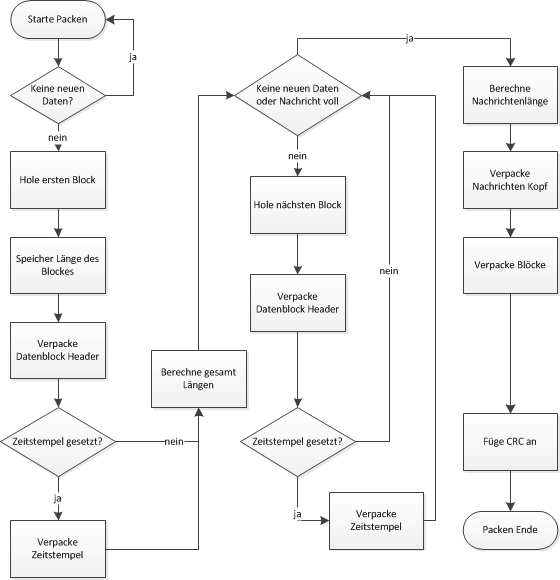
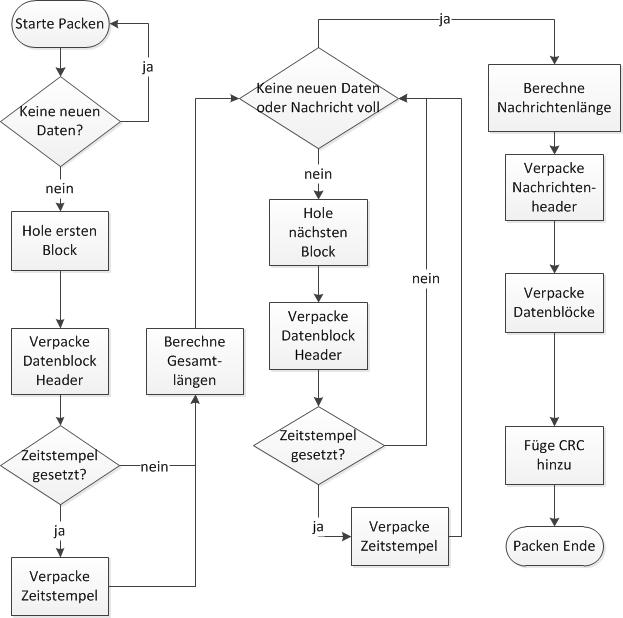
doc: 	improvements in implementation 	fixes typos 	pictures: improvements in readability

diff --git a/Documentation/projektarbeit2012/Implementierung.tex b/Documentation/projektarbeit2012/Implementierung.tex
@@ -7,23 +7,23 @@ welches über das Eclipse-Plugin EGit genutzt wurde. \newline Im Folgenden wird
 im Detail auf die Art und Weise der Realisierung der beiden Top-Level-Module
 \Code{Sender} und \Code{Receiver} eingegangen. Hierfür wurde eine flexible und
 modulare Softwarearchitektur entwickelt, damit auf spätere Änderungen, neue Anforderungen
-und erforderliche Optimierungen flexible reagieren werden kann. Dies ist durch
-das Austauschen kompletter Module möglich.
+und erforderlichen Optimierungen flexible reagieren werden kann. Dies ist durch
+das einfache Austauschen kompletter Module möglich.
 Dafür wird ein objektorientiertes Design genutzt, womit Quellcoderedundanzen und damit
-zahlreiche potentielle Programmfehler vermieden werden konnten.
+zahlreiche potentielle Programmierfehler vermieden werden konnten.
 Weiterhin ist die Wiederverwendung einzelner Quellcodepassagen möglich.\newline
-Damit die beiden Module in anderen Projekten einfach genutzt werden kann, wurde
-eine statische Library erstellt, welche über eine Schnittstelle die Funktionen
-der beiden Module bereitstellt. Wie bereits angesprochen wurden in dieser Arbeit
-nur die beiden Datentypen Text und Sensorwerte integriert.
+Damit die beiden Module in anderen Projekten einfach genutzt werden können,
+wurde eine statische Library erstellt, welche über eine Schnittstelle die Funktionen
+der beiden Module bereitstellt. In dieser Arbeit wurden nur die beiden
+Datentypen Text und Sensorwerte integriert.
 
 \section{Modulaufbau Sender}
 
 Die Aufgabe des Moduls \Code{Sender} besteht darin, die aus vier Phasen
-bestehende Verarbeitung der Daten aus \todo{LINK zur arbeit} umzusetzen. In
+bestehende Verarbeitung der Daten aus \todo{LINK zur crop-arbeit} umzusetzen. In
 \abbildung{BlockdiagrammSender} ist das Blockdiagramm des Moduls \Code{Sender}
 darstellt.
-Dies bietet eine Übersicht zu allen Modulen und wie diese mit anderen
+Dies bietet eine Übersicht zu den Modulen und wie diese untereinander 
 Kommunizieren. In der Grafik ist jedes Submodul durch ein M in der linken
 oberen Ecke des Blockes gekennezeichnt. Ebenso ist die Schnittstellenklasse angegeben
 und durch die Abkürzung IF (Interface) gekennzeichnet. Dadurch ist der geforderte modulare
@@ -47,17 +47,17 @@ Anschliessend wird jedem einzelnen Datenblock im nächsten Modul eine Priorität
 Relevanz und die Priorität der Datenblöcke wird in einem extra Modul namens
 CRODM (Content Relevance-oriented Data Management)
 berechnet und den Modulen übergeben.
-Anhand dieser wird der Datenblock in derDatenstruktur
-\Code{SmartPrioritizedQueue} einsortiert. Für diese Aufgabe wird eine einfache
-Liste aus der Standard Template Library (STL) verwendet.
-Diese gewährt die beste Laufzeitgeschwindkeit. Dadurch wird gewährleistet, dass die wichtigen
-Daten zuerst gesendet werden.
+Anhand dieser wird der Datenblock in die Datenstruktur
+\Code{SmartPrioritizedQueue} einsortiert. Dadurch wird
+gewährleistet, dass die wichtigen Daten zuerst gesendet werden. Für diese
+Aufgabe wird eine einfache Liste aus der Standard Template Library (STL) verwendet.
+Diese hat für den Zweck die beste Laufzeitgeschwindkeit.
 Damit die Verzögerung, die durch große Entfernungen auftreten, besser
 berücksichtigt werden kann, wird das Submodul \Code{Packetizer} als Thread
 gestartet.
-Dieser holt sich die Packete mit der höchsten Priorität aus der priorisierenden Queue
-und verpackt diese in eine Nachricht, welche anschliessend an die
-Netzwerkschnittstelle übergeben und versendet wird. \newline
+Dieser holt sich die Packete mit der höchsten Priorität aus der
+\Code{SmartPriorisierendenQueue} und verpackt diese in eine Nachricht, welche
+anschliessend an die Netzwerkschnittstelle übergeben und versendet wird. \newline
 Die Umsetzung der Submodule wird im nachfolgenden genauer erläutert.
 
 \subsection{Splitten und Encoden}
@@ -74,17 +74,13 @@ dargestellte Beispieltext erstellt.
 \label{fig:Beispieltext}
 \end{figure}
 
-In diesem Testfall wurden die relevanten Bereiche festgelegt, um mögliche
-Randfälle abzudecken. Die relevanten Bereiche sind in
-der \abbildung{Beispieltext} gelb markiert.
-Ein Bereich beginnt immer mit einer zeichengenauen Position, der x- und
-y-Koordinate im Text und der jeweiligen Länge. Für einen Textausschnitt ist die
-Angabe der Länge nur in x Richtung notwendig. \newline
-Daraus ergeben sich folgende relevanten Bereiche:
+In diesem Testfall wurden die relevanten Bereiche willkürlich festgelegt, mit
+dem Augenmerk mögliche Randfälle abzudecken. Die relevanten Bereiche sind in
+der \abbildung{Beispieltext} gelb markiert.\newline
+Daraus ergeben sich folgenden Positionen der relevanten Bereiche:
 
-% tabelle der relevanten bereiche
 \begin{longtable}{|cccl|}
-\caption{Übersicht der relevanten Bereiche} \\
+\caption{Übersicht der relevanten 2D-Bereiche} \\
 \hline
 \label{tab:UebersichtDerRelevantenBereiche}
 \textbf{Position x} & \textbf{Position y} & \textbf{Länge x} &
@@ -102,13 +98,71 @@ Für den Algorithmus ist es wichtig, dass die relevanten Bereiche nach den
 Positionen sortiert sind. Das bedeutet, je niedriger die Zeile und Spalte,
 desto weiter vorn ist diese Position in der Datenstruktur gespeichert.
 Deshalb werden alle Angaben, die von dem Submodul \Code{Crodm} übergeben werden 
-zusätzlich sortiert.
+zuerst sortiert.
 Im nächsten Schritt werden die zweidimensionalen Koordinaten zu einer
-eindimensionalen umgerechnet, dadurch konnte das Problem der
-Zeilensprünge und der Bereiche, welche über eine Zeile hinaus gehen
-gelöst werden. Dies vereinfacht den Algorithmus erheblich. Dafür werden die
-Längen der einzelnen Zeilen berechnet. Aus diesen Daten können anschließend die Blöcke für die
-relevanten Bereiche genutzt werden, um die unrelevanten Fragmente zu berechnen.
+eindimensionalen umgerechnet, dadurch konnte das herausschneiden der
+Textfragmente, welcher Zeilensprünge beinhalten kann oder über eine Zeile hinaus
+geht vereinfacht werden. Dafür
+werden zuerst die akkumulierten Gesamtlängen der einzelnen Zeilen berechnet.
+Vorhandene Umlaute und andere Zeichen die nicht im ASCII\footnote{ASCII
+(American Standard Code for Information Interchange): Ist eine 7-Bit Zeichencodierung.}\todo{quelle für ascii}
+-Zeichensatz enthalten sind, benötigen die doppelte Länge.
+Die Gesamtlängen der Zeilen sind in der Tabelle
+\ref{tab:UebersichtDerAkkumuliertenZeilenlaengen} angegeben.
+
+\begin{longtable}{|cc|}
+\caption{Übersicht der akkumulierten Zeilenlängen} \\
+\hline
+\label{tab:UebersichtDerAkkumuliertenZeilenlaengen}
+\textbf{Zeile} & \textbf{Länge}\\
+\hline
+  0 &    0 \\
+  1 &   27 \\
+  2 &   78 \\
+  3 &  192 \\
+\hline
+\end{longtable}
+
+Daraus ergeben sich die folgenden eindimensionalen Positionsangaben:
+
+\begin{longtable}{|ccl|}
+\caption{Übersicht der relevanten 1D-Bereiche} \\
+\hline
+\label{tab:UebersichtDerEindimensionalenBereiche}
+\textbf{Position x} & \textbf{Länge x} &
+\textbf{relevanter Text}\\
+\hline
+   13 & 14 & "`Beispieltext:\ensuremath{\backslash}n"' \\
+   27 &  9 & "`Hallo ich"' \\
+   62 & 22 & "`komme vom Mars.\ensuremath{\backslash}nDabei"' \\
+  115 & 18 & "`dann priorisiert,"' \\
+  151 &  4 & "`und "' \\
+\hline
+\end{longtable}
+
+Die Blöcke für die relevanten Bereiche können genutzt werden,
+um die dazwischenliegenden unrelevanten Fragmente zu berechnen. Die Differenz
+zwischen der Endposition des ersten Blockes und der Anfangsposition des
+darauf Folgenden ergibt die Länge des neuen Blockes. Die Anfangspositon des
+neuen Blockes ist die Endposition des Vorhergehenden. Die Relevanz ist Null.
+Zusammengefasst ergibt die Berechnung die in Tabelle
+\ref{tab:UebersichtDerUNRelevantenBereiche} aufgeführten Bereiche.
+
+\begin{longtable}{|ccl|}
+\caption{Übersicht der unrelevanten Bereiche} \\
+\hline
+\label{tab:UebersichtDerUNRelevantenBereiche}
+\textbf{Position x} & \textbf{Länge x} &
+\textbf{unrelevanter Text}\\
+\hline
+   0 & 13 & "`Es folgt ein "' \\
+  36 & 26 & "` bin ein Beispieltext und "' \\
+  84 & 31 & "`wurde ich zerstückelt, "' \\
+ 133 & 18 & "`einzeln versendet "' \\
+ 155 & 37 & "` auf der Erde wieder zusammengesetzt.\ensuremath{\backslash}n"' \\
+\hline
+\end{longtable}
+
 Zum Schluss muss noch der letzte Block berechnet werden, der nach dem letzten
 relevanten Bereich übrig ist, falls dieser nicht mit dem Ende abschliesst. Mit
 diesen Daten kann der Teiltext für jeden Block aus dem Content
@@ -116,13 +170,12 @@ herrausgeschnitten werden. An dieser Stelle wird noch überprüft, ob der
 Datenblock des Teiltextes größer ist als die maximale Datenblöckgröße und
 gegebenenfalls in mehrere kleinere Teile zerlegt. Dieser wird danach zusammen
 mit den Informationen des Datenblockheaders in der Klasse \Code{Datablock}
-gespeichert und in einer einfachen FIFO zwischengespeichert. Für
-Sensorwerte ist kein Zerlegen der Daten in einzelne Blöcke notwendig.
-hier werden lediglich mehrere Daten einer Quelle mit dem passenden
+gespeichert und in einer einfachen FIFO hinterlegt. Für die Sensorwerte
+ist kein Zerlegen der Daten in Teilblöcke notwendig.
+Hier werden lediglich mehrere Daten einer Quelle mit dem passenden
 Zeitstempel gebuffert, damit diese platzsparender in dem Datenblock als
 Content eingefügt werden können. \newline
-Zusammenfassend lässt sich der Algorithmus als Abarbeitung nachfolgender
-Teilschritte betrachten.
+Der Algorithmus ist noch einmal im nachfolgenden Pseudocode dargestellt.
 
 \lstdefinelanguage{pseudo}{
 morekeywords={if, else, for, in, remove, from, case, do, forever, to, false,
@@ -141,8 +194,8 @@ des Moduls SplitEncoding]{Listings/PseudocodeSplitEncoding.txt}
 
 Die priorisierten Datenblöcke werden in diesem Schritt zu einer Nachricht
 verpackt. Hierbei ist darauf zu achten, dass die maximale Packetgröße
-nicht überschritten wird. Weiterhin sollte kein Platz verschwendet werden, \dahe
-die Nachricht soll die maximale Nachrichtenlänge so gut wie möglich erreichen.
+nicht überschritten wird. Weiterhin soll kein Platz verschwendet werden, \dahe
+die Nachricht soll die maximale Nachrichtenlänge so genau wie möglich erreichen.
 Um die Nachricht auf der Empfängerseite wieder korrekt darstellen zu können, ist
 die Einhaltung der Reihenfolge von hoher Wichtigkeit. \newline
 Das Submodul ist, wie bereits angesprochen, nebenläufig zum Programmablauf
@@ -150,9 +203,9 @@ integriert, um die Verzögerungen simulieren zu können. Damit die
 dadurch auftretenden Probleme der Gleichzeitigkeit vermieden werden können,
 wurden Semaphore in der Klasse \Code{SmartPrioritizedQueue}
 eingefügt, welche sicherstellen, dass nicht zwei Programmteile gleichzeitig auf
-die Daten zugreifen. Da erst am Ende bekannt ist, wie lang die Nachricht wird,
-werden alle Daten zuerst temporär angelegt, die Länge aufaddiert und zum Schluß zur Nachricht
-zusammengefügt.
+die gleichen Daten zugreifen. Da erst am Ende bekannt ist, wie lang die
+Nachricht wird, werden alle Daten zuerst temporär angelegt, die Länge aufaddiert
+und zum Schluß zur Nachricht zusammengefügt.
 Um die Nachricht möglichst effizient zu verpacken, wird in der
 Datenstruktur \Code{SmartPrioritizedQueue} zuerst das vorderste Packet
 (\^= höchste Priorität) herausgenommen. Deshalb wurde der
@@ -194,8 +247,8 @@ Für das Abspeichern der Daten auf die Festplatte existieren prinzipielle drei M
 \item Jede erzeugte Variable wird direkt auf der Festplatte abgespeichert.
 \item Ein Datenpacket (mehrere Variablen) wird an einer Stelle im Programm auf
 einmal gespeichert.
-\item Es werden Interrupts des Prozessors abgefangen, um Abstürze zu erkennen
-um dann entsprechend alle wichtigen Daten zu speichern.
+\item Es werden Interrupts des Prozessors abgefangen, um Abstürze zu erkennen,
+infolgedessen alle wichtigen Daten gesichert werden.
 \end{enumerate}
 
 Die erste Methode hat den Vorteil, dass alle Daten sofort gesichert werden und
@@ -211,7 +264,8 @@ der Festplatte hinterlegt und bei einem Absturz neu lädt und damit die
 \Code{SmartPrioritizedQueue} vorinitialisiert. Dadurch sind die Schnittstellen schon indirekt
 vorgegeben, welche das Modul bereitstellen soll. Das ist eine Methode,
 welche Datenblöcke auf der Festplatte speichert, eine weitere um diese zu laden
-und eine dritte, mit der bereits gespeicherte Datenblöcke gelöscht werden können. 
+und eine Dritte, mit der bereits gespeicherte Datenblöcke gelöscht werden
+können.
 
 \begin{figure}[H]
 \centering
@@ -231,7 +285,7 @@ zusätzlich auf der Festplatte gesichert. Beim Programmstart wird in der
 Initialisierungsmethode des Topmoduls überprüft, ob bereits alte Daten vorhanden
 sind, welche anschliessend geladen werden. \newline
 Für das Abspeichern der
-Daten fehlt noch ein passendes Dateiformat, welches ein schnelle Speichern und
+Daten fehlt noch ein passendes Dateiformat, welches ein schnelles Speichern und
 Lesen ermöglicht. Dazu wurden zwei Möglichkeiten gegenüber gestellt. Diese sind
 in Tabelle \ref{tab:Speicherformate} aufgeführt.
 
@@ -271,15 +325,15 @@ aufgeführten Reihenfolge gespeichert:
 \end{itemize}
 
 Aufgrund der Tatsache, dass der Datenblockheader eine Kompression beinhaltet,
-und damit die Größe der Variablen unterschiedlich sein kann, wurde für die
+und damit die Größe der Variablen unterschiedlich sein kann, wird für die
 Variablen festgelegt, dass für jeden Wert die höchste auftretende Bitzahl
-aufgerundet zu ganzen Byte verwendet wird. Dadurch wird das Laden und
-Speichern stark vereinfacht. Der dabei auftretende zusätzliche
+aufgerundet zur nächsten Zweierpotenz als Byte verwendet wird. Dadurch
+wird das Laden und Speichern stark vereinfacht. Der dabei auftretende zusätzliche
 Speicherplatzbedarf kann vernachlässigt werden.
 \newline 
 Für die Ordnerstruktur wurde eine möglichst flache Hierachie genutzt, welche in
-der obersten Stufe den Ordner Backup beinhaltet. Darin befinden sich weitere Ordner, welche
-als Namen die Nummer des Datentypes beinhalten. In diesem liegen die binären
+der obersten Stufe den Ordner \Code{Backup} beinhaltet. Darin befinden sich
+weitere Ordner, welche als Namen die Nummer des Datentypes beinhalten. In diesem liegen die binären
 Dateien dessen Namen aus der Nummer der DOID und der Sequenznummer besteht.
 Diese sind durch einen Unterstrich voneinander getrennt. Die drei Parameter
 werden von der Methode remove zum Löschen einer Datei übergeben, um diese
@@ -292,13 +346,16 @@ werden, um an die darin enthaltenen Informationen zu gelangen. Das Empfangen
 durch das Submodul \Code{UDPSocket} ist blockend. Deswegen wird der Vorgang
 nebenläufig ausgeführt, damit der Programmablauf nicht behindert wird. Anschliessend wird
 die Nachricht geparst und nach dem Beenden des Vorganges ein Callback
-\todo{erklären was callback ist} ausgelöst.
-Diese Funktion kann mittels einer Methode registriert werden, in der die
-geparsten Daten weiter verarbeitet werden können. Das könnte beispielsweise die
-Visualisierung dieser sein. \newline
-In \abbildung{BlockdiagrammEmpfaenger} ist eine schematische
-Darstellung des Moduls dargestellt. Die Implementierung wird im Folgendem näher
-erläutert.
+\todo{erklären was callback ist} ausgelöst. Bei einem Callback wird
+ein Zeiger auf die Speicheradresse der Funktion in der Klasse gespeichert. Durch
+Aufruf der Funktion ist es möglich den sequentiellen Programmablauf an einer
+anderen Stelle weiterlaufen zu lassen. Nach Abarbeitung dieser kehrt der Ablauf
+zur ursprünglichen Position zurück. Diese Funktion kann mittels einer Methode
+registriert werden, in der die geparsten Daten weiter verarbeitet werden können.
+Die Callbackfunktion könnte beispielsweise die Visualisierung der Daten
+übernehmen. \newline 
+In \abbildung{BlockdiagrammEmpfaenger} ist eine schematische Darstellung des
+Moduls dargestellt. Die Implementierung wird im Folgendem näher erläutert.
 
 \begin{figure}[H]
 \centering
@@ -313,11 +370,11 @@ Der Parser basiert auf dem in Kapitel \ref{sec:ProtokolDesign}
 vorgestellten Protokoll-Design.
 Anhand dieser Daten wird die empfangende Nachricht Bit für Bit analysiert
 und die Informationen herrausgezogen. 
-Die Klasse UDPSocket empfängt neue Daten und gibt diese an
-die Klasse MessageParser weiter. Dieser parst die Nachrichtenheader. Dessen
-Algorithmus ist in \abbildung{AlgorithmusMessageParser} dargestellt.
+Die Klasse \Code{UDPSocket} empfängt neue Daten und gibt diese an
+die Klasse \Code{MessageParser} weiter. Dieser parst den Nachrichtenheader.
+Dessen Algorithmus ist in \abbildung{AlgorithmusMessageParser} dargestellt.
 Anschließend werden die Datenblockheader geparst. Der Content wird von der
-Klasse DataBlockProcessing verarbeitet.
+Klasse \Code{DataBlockProcessing} verarbeitet.
 
 \begin{figure}[H]
 \centering
@@ -328,10 +385,10 @@ Klasse DataBlockProcessing verarbeitet.
 
 Dafür wird ein Softwarekonzept namens Policy-Based-Template-Meta Programmierung
 \todo{LINK buch + wiki} verwendet, damit die unterschiedlichen Datentypen der
-Datenblöcke nach dem parsen wieder in einem typsicheren Format vorliegen und
+Datenblöcke nach dem Parsen wieder in einem typsicheren Format vorliegen und
 einfacher verwendet werden können.
-In diesem Fall werden die folgenden vier Klassen als Templateparameter Klasse
-übergeben:
+Der Templateklasse werden die folgenden vier Klassen als Templateparameter
+Klasse übergeben:
 
 \begin{itemize}
 \item T - Datentyp des Rückgabewertes des Parsers
@@ -341,7 +398,7 @@ In diesem Fall werden die folgenden vier Klassen als Templateparameter Klasse
 \end{itemize}
 
 Die beiden Parameter \Code{Parser} und \Code{Decoder} erben zusätzlich von einer
-Schnittstelle. Die Klasse \Code{DataBlockProcessing} erbt
+Schnittstelle gleichen Namens. Die Klasse \Code{DataBlockProcessing} erbt
 wiederum von den beiden Parametern \Code{Parser} und \Code{Decoder}.
 Dadurch besteht die Möglichkeit in der Klasse auf Funktionen und
 Membervariablen zugreifen zu können.

diff --git a/Documentation/projektarbeit2012/Schnittstellen.tex b/Documentation/projektarbeit2012/Schnittstellen.tex
@@ -17,15 +17,15 @@ Die Schnittstelle (1) ist die Gesamtschnittstelle. Hier wird der
 Content an das Modul übergeben. Weiterhin erfolgt die Übergabe der DOID, des
 Datentypes und eines Flags, welches angibt, ob ein Zeitangabe berücksichtigt
 werden soll.
-Optional sind ein oder mehrere Positionsangaben mit einem Relevanzwert
-anzugeben. Als Relevanzwert wurde festgelegt, dass dieser eine prozentuale
-Angabe im Bereich von 0 bis 100 ist. Dabei wird 0 als unwichtig und 100 als
-sehr wichtig eingestuft. Die Positionsangaben beinhalten zum einen den
+Optional sind ein oder mehrere zeichengenaue Positionsangaben mit einem
+Relevanzwert anzugeben. Als Relevanzwert wurde festgelegt, dass dieser eine
+prozentuale Angabe im Bereich von 0 bis 100 ist. Dabei wird 0 als unwichtig und
+100 als sehr wichtig eingestuft. Die Positionsangaben beinhalten zum einen den
 Startpunkt des relevanten Bereiches mit einer x- und y-Koordinate. Weiterhin
-wird das Volumen des Bereiches mit einer Länge in x- und y-Richtung angegeben.
-Die Angabe der Positionen und des Relevanzwertes ist \zB notwendig, wenn diese
-Daten nicht selbst berechnet werden sollen, sondern der Benutzer diese über eine
-grafische Benutzeroberfläche vorgibt.
+wird das Fläche des Bereiches mit einer Länge in x- und y-Richtung angegeben.
+Die Angabe der Positionen und des Relevanzwertes ist beispielsweise notwendig,
+wenn diese Daten nicht selbst berechnet werden sollen, sondern der Benutzer
+diese über eine grafische Benutzeroberfläche vorgibt.
 
 \textbf{Schnittstelle (2)} \newline
 An den Evaluator wird von den Eingangsdaten der Schnittstelle (1)
